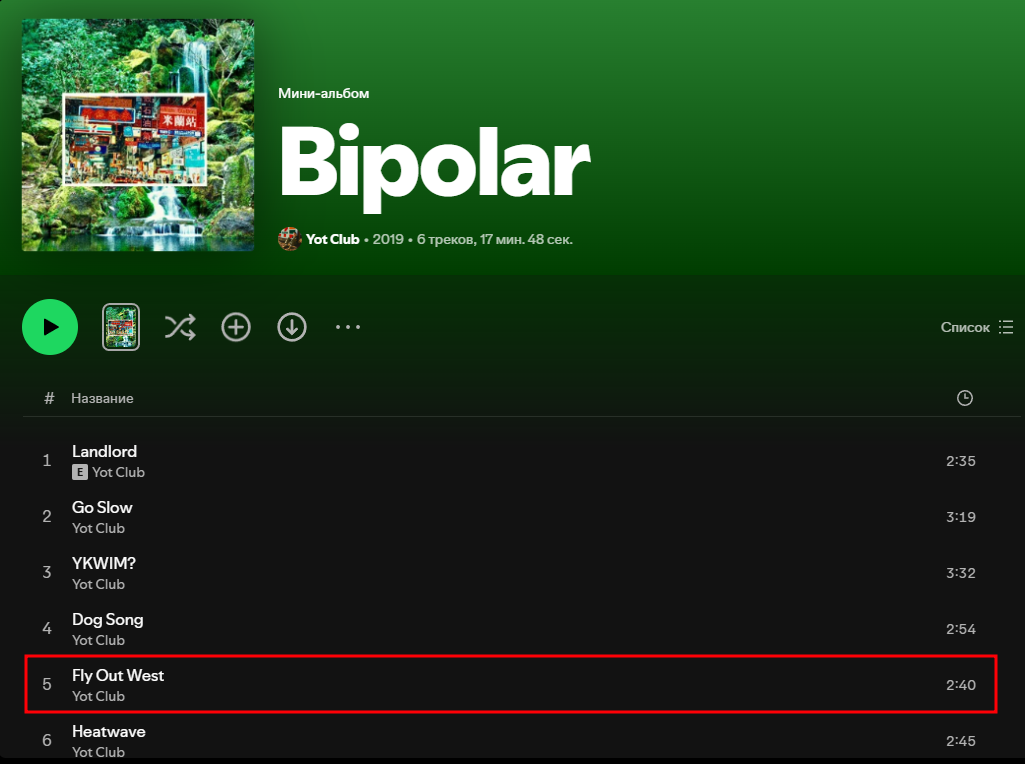
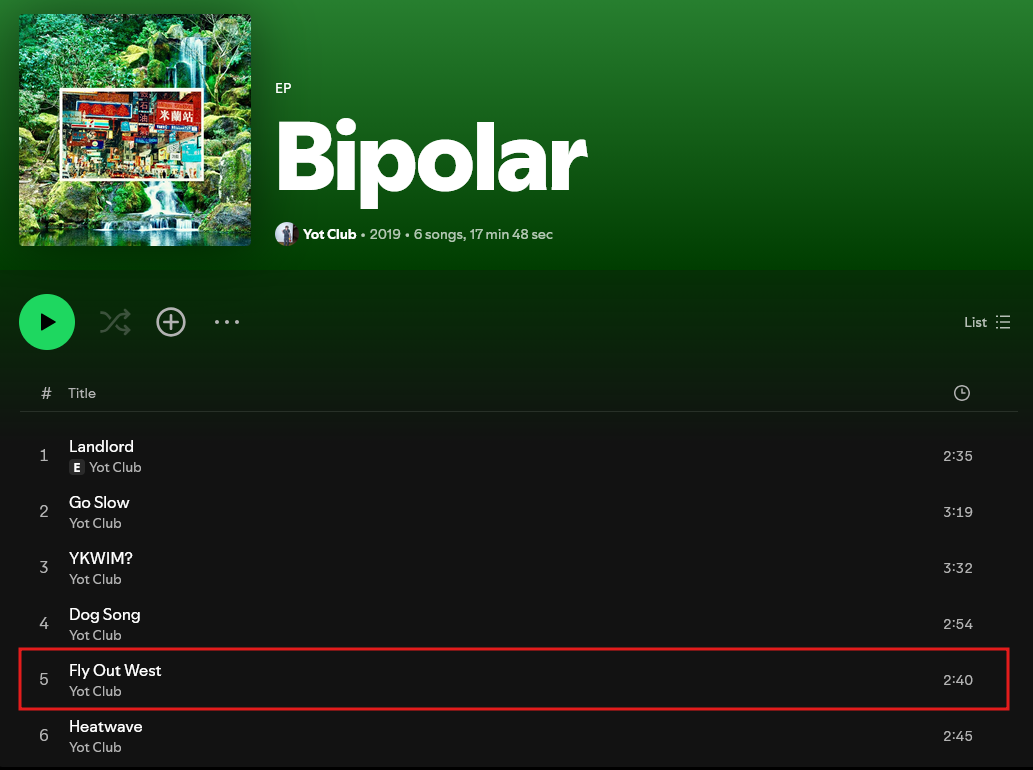
docs: update Lyrics section and minor corrections

diff --git a/docs/ru-ru/library-structure/README.md b/docs/ru-ru/library-structure/README.md
@@ -46,7 +46,7 @@ CD/<Исполнитель альбома>/[<Каталожный номер>] [
 - Символ точки `.`, поскольку названия директорий не могут заканчиваться этим символом в Windows.
 
 > [!WARNING]
-> Символы Юникода, похожие на буквы, цифры и знаки препинания ASCII, заменяются на их ASCII-эквиваленты, а при отсутствии таковых - на знак подчеркивания. Подробнее об этом можно прочитать в [MusicHoarders вики](https://musichoarders.xyz/reference/bibles/the-salty-bible/#35-do-not-use-fancy-unicode-symbols-for-common-punctuation-marks).  
+> Символы Юникода, похожие на буквы, цифры и знаки препинания ASCII, заменяются на их ASCII-эквиваленты, а при отсутствии таковых - на знак подчеркивания. Подробнее об этом можно прочитать в [руководстве от участника MusicHoarders](https://musichoarders.xyz/reference/bibles/the-salty-bible/#35-do-not-use-fancy-unicode-symbols-for-common-punctuation-marks).  
 > Это правило применяется только тогда, когда такие символы Юникода не несут смысловой нагрузки.  
 > В случаях, когда символы Юникода используются намеренно (например, в [этом релизе на Bandcamp](https://00000ooooo.bandcamp.com/album/--5)) или являются [частью национальной письменности](https://en.wikipedia.org/wiki/Japanese_punctuation), они не заменяются.  
 
@@ -89,7 +89,7 @@ CD/<Исполнитель альбома>/[<Каталожный номер>] [
 - Неразрывные пробелы.
 
 > [!WARNING]
-> Символы Юникода, похожие на буквы, цифры и знаки препинания ASCII, заменяются на их ASCII-эквиваленты, а при отсутствии таковых - на знак подчеркивания. Подробнее об этом можно прочитать в [MusicHoarders вики](https://musichoarders.xyz/reference/bibles/the-salty-bible/#35-do-not-use-fancy-unicode-symbols-for-common-punctuation-marks).  
+> Символы Юникода, похожие на буквы, цифры и знаки препинания ASCII, заменяются на их ASCII-эквиваленты, а при отсутствии таковых - на знак подчеркивания. Подробнее об этом можно прочитать в [руководстве от участника MusicHoarders](https://musichoarders.xyz/reference/bibles/the-salty-bible/#35-do-not-use-fancy-unicode-symbols-for-common-punctuation-marks).  
 > Это правило применяется только тогда, когда такие символы Юникода не несут смысловой нагрузки.  
 > В случаях, когда символы Юникода используются намеренно (например, в [этом релизе на Bandcamp](https://00000ooooo.bandcamp.com/album/--5)) или являются [частью национальной письменности](https://en.wikipedia.org/wiki/Japanese_punctuation), они не заменяются.  
 

diff --git a/docs/ru-ru/lyrics/README.md b/docs/ru-ru/lyrics/README.md
@@ -2,8 +2,13 @@
 
 ## Lyrics-файлы
 
-Тексты песен находятся рядом с аудиофайлами. Они имеют такое же название, но другое расширение: `.lrc`.  
-Далее такие файлы будут называться lyrics-файлами.
+Вместо встроенных тегов для хранения и отображения текстов песен я использую внешние файлы (далее - lyrics-файлы).  
+Они расположены в той же папке, что и аудиофайлы, и имеют такие же имена, но другое расширение: `.lrc`.  
+В этих файлах хранится построчно синхронизированный текст.
+
+> [!IMPORTANT]
+> Существуют и другие форматы: например, несинхронизированные тексты в `.txt` файлах или тексты с пословной синхронизацией для караоке, которые хранятся в `.ttml` [файлах](https://en.wikipedia.org/wiki/Timed_Text_Markup_Language), `.lrc` [файлах с поддержкой Enhanced LRC](https://en.wikipedia.org/wiki/LRC_(file_format)#A2_extension_(Enhanced_LRC_format)) и некоторых других.  
+> Я не использую эти форматы.
 
 Например: рядом с песней с названием `1.10. When the Moon's Reaching out Stars -Reload-.flac` будет лежать lyrics-файл `1.10. When the Moon's Reaching out Stars -Reload-.lrc`.
 
@@ -18,14 +23,14 @@
 
 ## ID-теги
 
-Я не использую эти теги.
+Я не использую ID-теги.
 
 ## Содержание текстов
 
 Я избегаю символов, вызывающих сбои отображения или парсинга в музыкальных плеерах, которые я использую.  
-Строгого списка нет, я опираюсь на информацию в [MusicHoarders вики](https://musichoarders.xyz/reference/bibles/the-salty-bible/#35-do-not-use-fancy-unicode-symbols-for-common-punctuation-marks).
+Строгого списка нет, я опираюсь на информацию в [руководстве от участника MusicHoarders](https://musichoarders.xyz/reference/bibles/the-salty-bible/#35-do-not-use-fancy-unicode-symbols-for-common-punctuation-marks) и учитываю некоторые дополнительные символы - например, специфические виды пробелов.
 
-Я использую синхронизированные тексты песен, которые выглядят таким образом:
+Я использую построчно синхронизированные тексты песен, которые выглядят таким образом:
 
 ```lrc
 [00:11.50] (Step up, step up) step up

diff --git a/docs/en-us/library-structure/README.md b/docs/en-us/library-structure/README.md
@@ -48,7 +48,7 @@ Forbidden characters in directory names (replaced with underscore character `_`)
 - The dot character `.`, because directory names cannot end with it on Windows.
 
 > [!WARNING]
-> Fancy Unicode characters that resemble ASCII letters, numbers, or punctuation marks are replaced with their ASCII equivalents, or with underscore if no equivalent exists. For more details, see [MusicHoarders Wiki](https://musichoarders.xyz/reference/bibles/the-salty-bible/#35-do-not-use-fancy-unicode-symbols-for-common-punctuation-marks).  
+> Fancy Unicode characters that resemble ASCII letters, numbers, or punctuation marks are replaced with their ASCII equivalents, or with underscore if no equivalent exists. For more details, see [guide by a MusicHoarders member](https://musichoarders.xyz/reference/bibles/the-salty-bible/#35-do-not-use-fancy-unicode-symbols-for-common-punctuation-marks).  
 > This applies only when such Unicode characters carry no semantic weight.
 > This does not apply when Unicode characters are used intentionally (as in this [Bandcamp release](https://00000ooooo.bandcamp.com/album/--5)) or are [part of a writing system](https://en.wikipedia.org/wiki/Japanese_punctuation).
 
@@ -91,7 +91,7 @@ Forbidden characters in file names (replaced with underscore character `_`):
 - Non-breaking spaces.
 
 > [!WARNING]
-> Fancy Unicode characters that resemble ASCII letters, numbers, or punctuation marks are replaced with their ASCII equivalents, or with underscore if no equivalent exists. For more details, see [MusicHoarders Wiki](https://musichoarders.xyz/reference/bibles/the-salty-bible/#35-do-not-use-fancy-unicode-symbols-for-common-punctuation-marks).  
+> Fancy Unicode characters that resemble ASCII letters, numbers, or punctuation marks are replaced with their ASCII equivalents, or with underscore if no equivalent exists. For more details, see [guide by a MusicHoarders member](https://musichoarders.xyz/reference/bibles/the-salty-bible/#35-do-not-use-fancy-unicode-symbols-for-common-punctuation-marks).  
 > This applies only when such Unicode characters carry no semantic weight.
 > This does not apply when Unicode characters are used intentionally (as in this [Bandcamp release](https://00000ooooo.bandcamp.com/album/--5)) or are [part of a writing system](https://en.wikipedia.org/wiki/Japanese_punctuation).
 

diff --git a/docs/en-us/lyrics/README.md b/docs/en-us/lyrics/README.md
@@ -4,7 +4,13 @@
 
 ## Lyrics files
 
-Lyrics files are located in the same folder as the audio files, and use the same base filename with the `.lrc` extension.
+Instead of embedded tag, I use external lyrics files to store and display song lyrics.  
+They are located in the same folder as the audio files, and use the same base filename with the `.lrc` extension.  
+These files contain line-synchronized lyrics.
+
+> [!IMPORTANT]
+> There are other lyrics formats as well, such as unsynchronized lyrics stored in `.txt` files, or word-synchronized lyrics used for karaoke, which are stored in `.ttml` [files](https://en.wikipedia.org/wiki/Timed_Text_Markup_Language), `.lrc` [files with Enhanced LRC support](https://en.wikipedia.org/wiki/LRC_(file_format)#A2_extension_(Enhanced_LRC_format)) and some others.  
+> I do not use these formats.
 
 For example: next to a song named `1.10. When the Moon's Reaching out Stars -Reload-.flac` there will be a lyrics file `1.10. When the Moon's Reaching out Stars -Reload-.lrc`.
 
@@ -19,14 +25,14 @@ More details about ID tags and lyrics files can be read on [Wikipedia article](h
 
 ## ID Tags
 
-I do not use these tags.
+I do not use ID Tags.
 
 ## Lyrics Content
 
 I avoid characters that cause parsing or rendering issues in music players I use.  
-There is no fixed list, i rely on [MusicHoarders Wiki](https://musichoarders.xyz/reference/bibles/the-salty-bible/#35-do-not-use-fancy-unicode-symbols-for-common-punctuation-marks) guidelines.
+There is no fixed list, i rely on [guide by a MusicHoarders member](https://musichoarders.xyz/reference/bibles/the-salty-bible/#35-do-not-use-fancy-unicode-symbols-for-common-punctuation-marks) and also account for a few other characters, such as specific whitespace characters.
 
-I use synchronized lyrics, which look like this:
+I use line-synchronized lyrics, which look like this:
 
 ```lrc
 [00:11.50] (Step up, step up) step up

diff --git a/docs/ru-ru/covers-and-booklets/README.md b/docs/ru-ru/covers-and-booklets/README.md
@@ -42,7 +42,7 @@
 1. В 2019 году выходит сингл Fly Out West, он имеет следующую обложку:
 ![Обложка сингла](../../images/covers-example-single.png)
 
-2. Позже, в том же году выходит мини-альбом Bipolar, в котором эта песня находится на 5 месте и использует обложку альбома:
+2. В тот же день выходит мини-альбом Bipolar, в котором эта песня находится на 5 месте и использует обложку альбома:
 ![Альбом](../../images/covers-example-album.png)
 
 3. Таким образом обложка сингла теряется, что не есть хорошо, поэтому я ее сохраняю отдельно.
@@ -64,7 +64,7 @@
 
 ## Буклеты
 
-> [!WARNING]
+> [!IMPORTANT]
 > Буклеты хранятся:  
 >
 > - в директории `scans`, если релиз физический и буклет отсканирован непосредственно с него, независимо от того, кто выполнил сканирование;  

diff --git a/docs/en-us/covers-and-booklets/README.md b/docs/en-us/covers-and-booklets/README.md
@@ -44,7 +44,7 @@ Consider the following example:
 1. In 2019, single Fly Out West is released and has the following cover:
 ![Single cover](../../images/covers-example-single.png)
 
-2. Later that same year, the EP Bipolar is released, including the song as track 5 and using the album cover:
+2. On the same day, the EP Bipolar is released, including this song as track 5 and using the album cover:
 ![Album](../../images/covers-example-album.png)
 
 3. Thus the single cover is lost, which is not good, so I save it separately.
@@ -66,7 +66,7 @@ Naming for other covers: `video background`, `poster`.
 
 ## Booklets
 
-> [!WARNING]
+> [!IMPORTANT]
 > Booklets are stored as follows:
 >
 > - in the `scans` directory, if release is physical and booklet was scanned directly from it, regardless of who performed scan;

diff --git a/docs/ru-ru/changelog.md b/docs/ru-ru/changelog.md
@@ -2,6 +2,18 @@
 
 # История изменений
 
+## 20-10-2026
+
+### Изменено
+
+- Обновлен раздел [Тексты песен](/ru-ru/lyrics/).
+
+### Исправлено
+
+- Незначительные исправления документа.
+
+---
+
 ## 14-10-2026
 
 ### Добавлено

diff --git a/docs/en-us/changelog.md b/docs/en-us/changelog.md
@@ -2,6 +2,18 @@
 
 # Changelog
 
+## 2026-10-20
+
+### Changed
+
+- Updated [Lyrics](/en-us/lyrics/) section.
+
+### Fixed
+
+- Minor document corrections.
+
+---
+
 ## 2026-10-14
 
 ### Added
